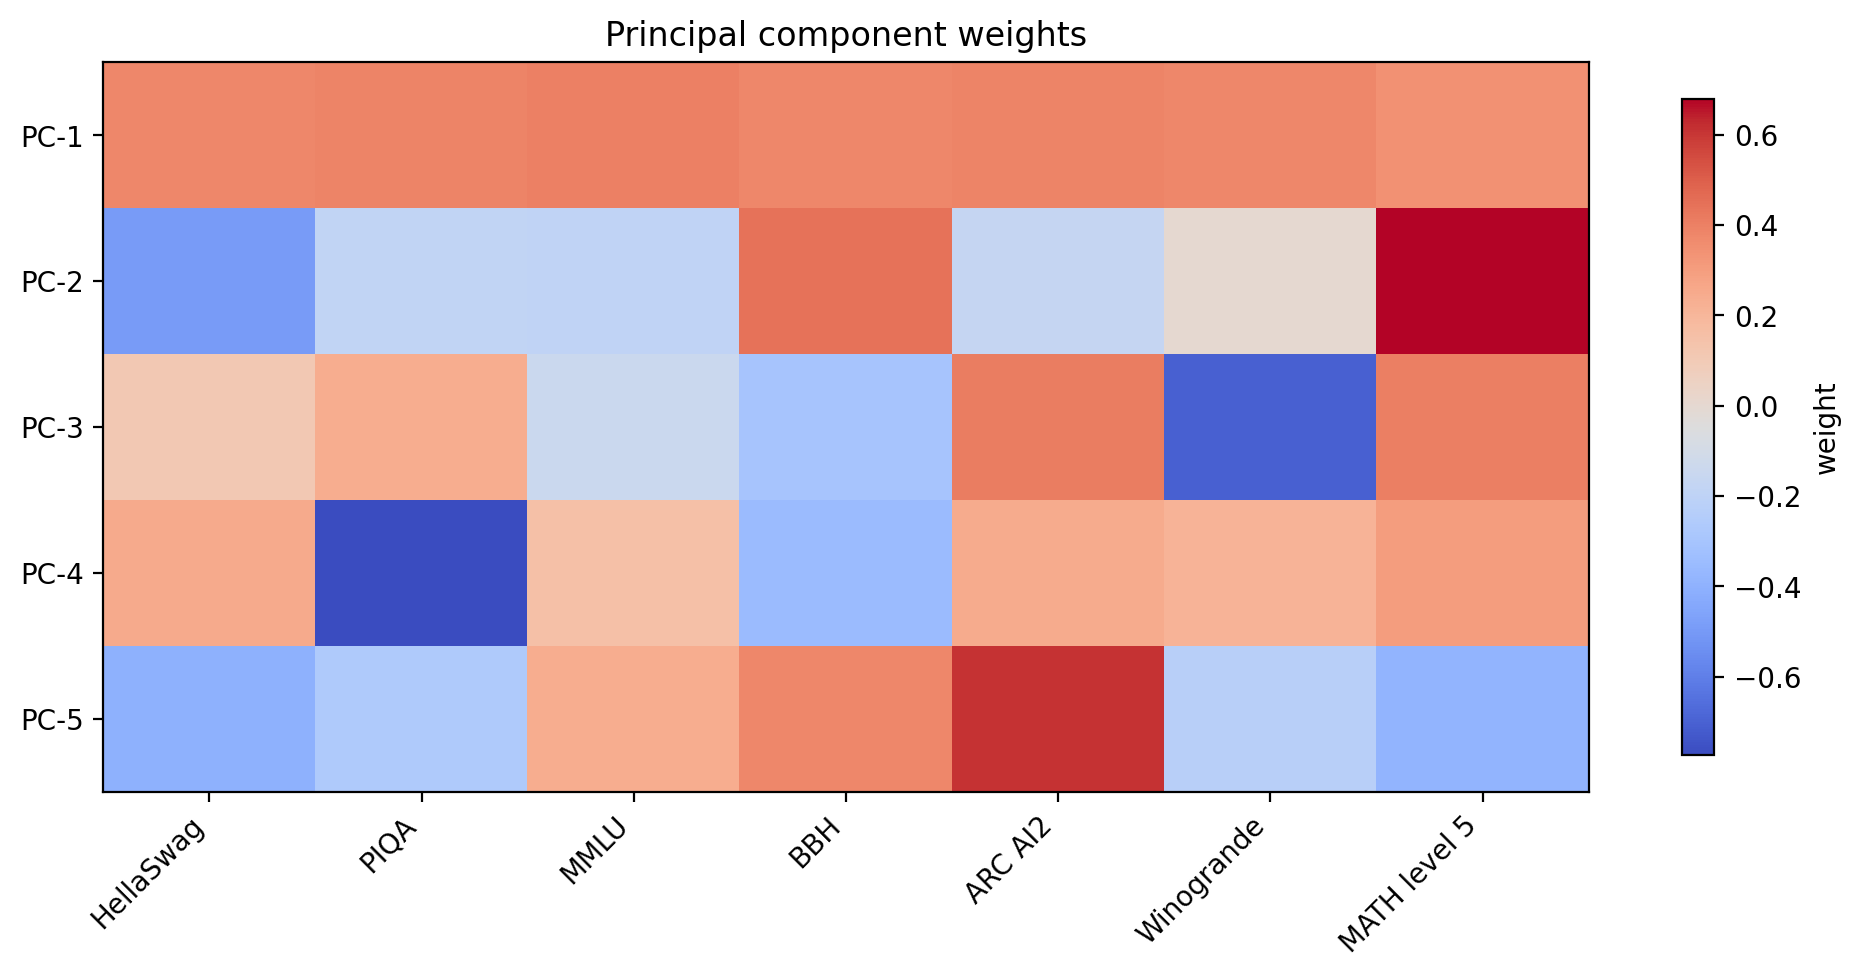
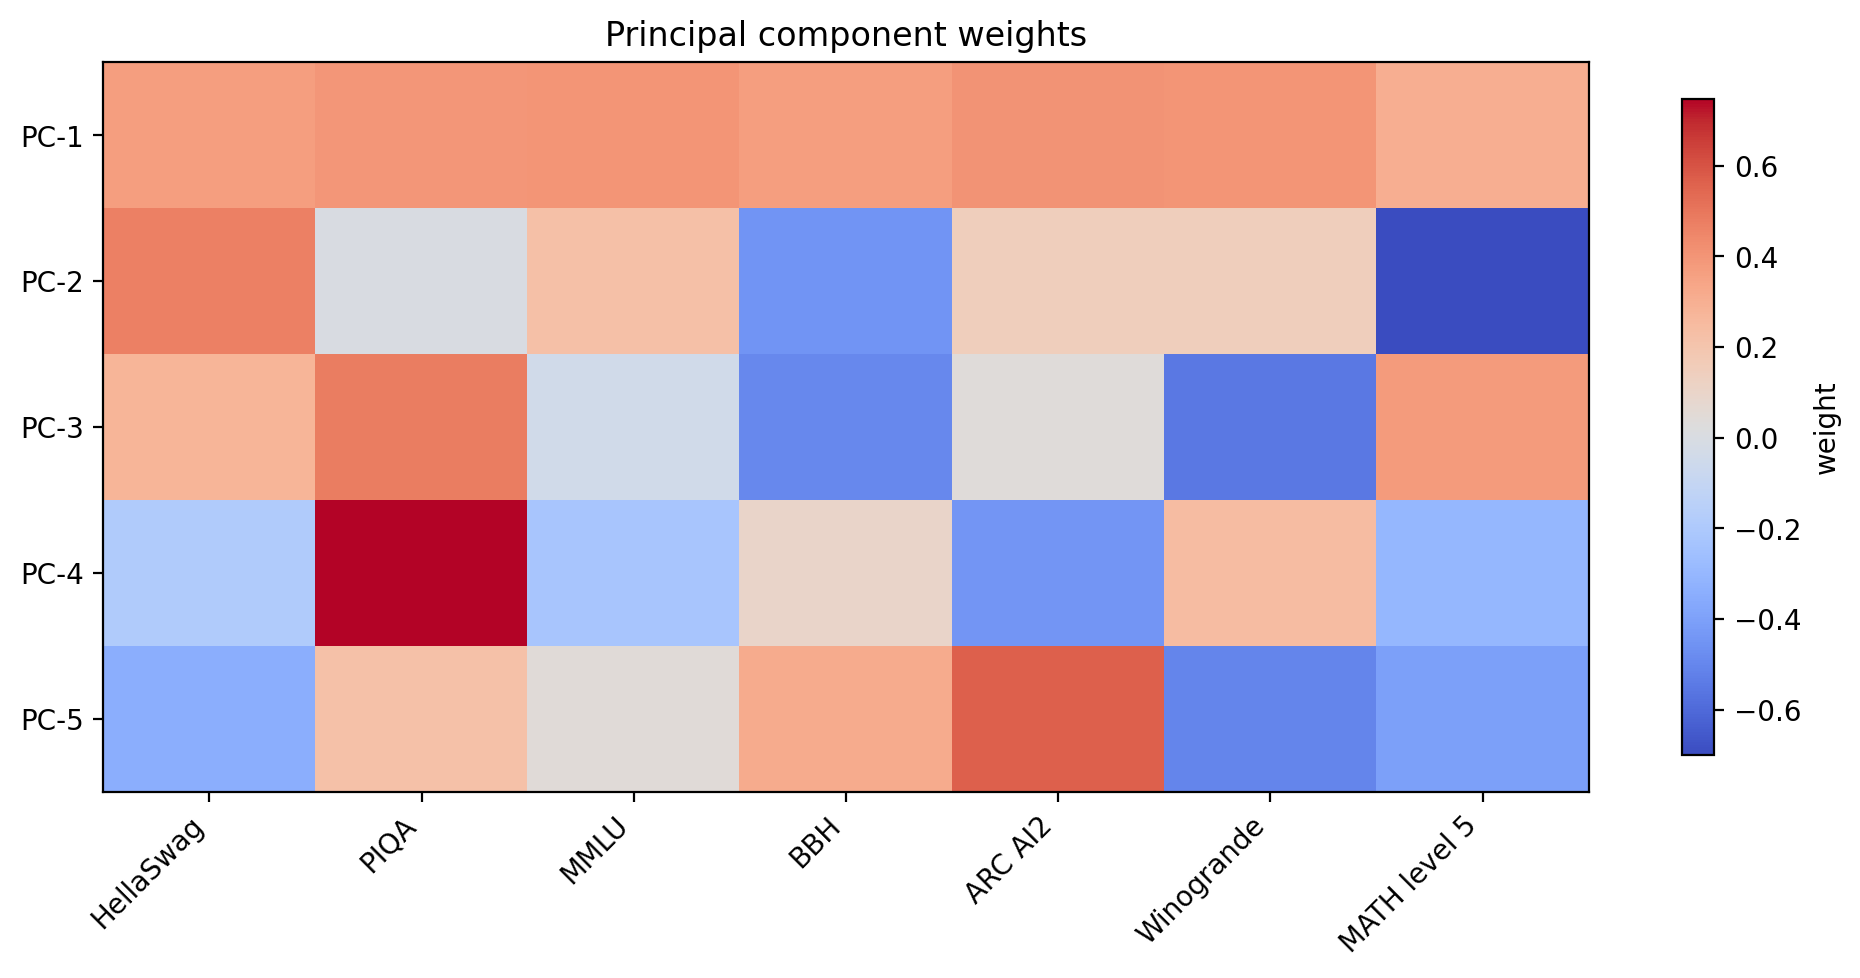
using new ECI for joint scaling; looks reasonable?

diff --git a/src/hinted_accuracy.py b/src/hinted_accuracy.py
@@ -9,8 +9,6 @@ import numpy as np
 
 
 DATA_ROOT = Path("data")
-RESULTS_WITH_CI_BY_COMBO_ROOT = DATA_ROOT / "results_with_ci_by_combo"
-EXTERNAL_RESULTS_WITH_CI_PATHS: dict[str, Path] = {}
 LUKE_AIME_RESULTS_ROOT = DATA_ROOT / "luke_aime2025_2026_results"
 LUKE_AIME_BENCHMARK = "aime2025_2026"
 LUKE_SUPPORTED_HINT_TYPE = "answer_not_revealed"
@@ -257,53 +255,6 @@ def collect_stats_for_fraction(
     }
 
 
-def load_external_results_with_ci(
-    path: Path,
-) -> dict[str, dict[float, dict[str, float]]] | None:
-    if not path.exists():
-        return None
-
-    with open(path, "r", encoding="utf-8") as f:
-        payload = json.load(f)
-    if not isinstance(payload, dict):
-        raise ValueError(f"Expected top-level object in {path}, got {type(payload).__name__}")
-
-    out: dict[str, dict[float, dict[str, float]]] = {}
-    for model, model_payload in payload.items():
-        if not isinstance(model, str) or not isinstance(model_payload, dict):
-            continue
-        fraction_map: dict[float, dict[str, float]] = {}
-        for hint_fraction_raw, stats in model_payload.items():
-            if not isinstance(stats, dict):
-                continue
-            try:
-                hint_fraction = float(hint_fraction_raw)
-            except (TypeError, ValueError):
-                continue
-            mean = stats.get("mean")
-            ci_lower = stats.get("ci_lower")
-            ci_upper = stats.get("ci_upper")
-            if not all(isinstance(value, (float, int)) for value in (mean, ci_lower, ci_upper)):
-                continue
-            fraction_map[float(hint_fraction)] = {
-                "accuracy": float(mean),
-                "ci_low": float(ci_lower),
-                "ci_high": float(ci_upper),
-            }
-        if fraction_map:
-            out[model] = fraction_map
-    return out
-
-
-def load_external_results_with_ci_for_fractioner(
-    fractioner: str,
-) -> dict[str, dict[float, dict[str, float]]]:
-    path = EXTERNAL_RESULTS_WITH_CI_PATHS.get(fractioner)
-    if path is None:
-        return {}
-    return load_external_results_with_ci(path) or {}
-
-
 def load_luke_results_with_ci_for_combo(
     *,
     benchmark: str,
@@ -368,17 +319,6 @@ def discover_models_for_benchmark(benchmark: str, *, data_root: Path = DATA_ROOT
     if benchmark_dir.exists():
         models.update(path.name for path in benchmark_dir.iterdir() if path.is_dir())
     return sorted(models)
-
-
-def results_with_ci_by_combo_path(
-    *,
-    benchmark: str,
-    hint_type: str,
-    fractioner: str,
-    data_root: Path = DATA_ROOT,
-) -> Path:
-    combo_name = f"{safe_component(hint_type)}__{safe_component(fractioner)}.json"
-    return (data_root / "results_with_ci_by_combo" / safe_component(benchmark) / combo_name)
 
 
 def discover_fractioners(
@@ -587,37 +527,7 @@ def rows_to_results_with_ci_payload(rows: list[dict[str, Any]]) -> dict[str, dic
     return payload
 
 
-def external_results_to_payload(
-    external_results: dict[str, dict[float, dict[str, float]]] | None,
-) -> dict[str, dict[str, dict[str, float]]]:
-    payload: dict[str, dict[str, dict[str, float]]] = {}
-    if not external_results:
-        return payload
-
-    for model, fraction_map in sorted(external_results.items()):
-        for hint_fraction, stats in sorted(fraction_map.items()):
-            fraction_key = f"{float(hint_fraction):.1f}"
-            payload.setdefault(model, {})[fraction_key] = {
-                "mean": float(stats["accuracy"]),
-                "ci_lower": float(stats["ci_low"]),
-                "ci_upper": float(stats["ci_high"]),
-            }
-    return payload
-
-
-def merge_results_with_ci_payloads(
-    base: dict[str, dict[str, dict[str, float]]],
-    override: dict[str, dict[str, dict[str, float]]],
-) -> dict[str, dict[str, dict[str, float]]]:
-    out: dict[str, dict[str, dict[str, float]]] = {
-        model: dict(frac_map) for model, frac_map in base.items()
-    }
-    for model, frac_map in override.items():
-        out.setdefault(model, {}).update(frac_map)
-    return out
-
-
-def build_results_with_ci_for_combo(
+def load_local_results_with_ci_for_combo(
     *,
     benchmark: str,
     hint_type: str,
@@ -639,6 +549,19 @@ def build_results_with_ci_for_combo(
     return parse_results_with_ci_payload(local_payload)
 
 
+def _merge_results_with_ci_maps(
+    *,
+    base: dict[str, dict[float, dict[str, float]]],
+    override: dict[str, dict[float, dict[str, float]]],
+) -> dict[str, dict[float, dict[str, float]]]:
+    out: dict[str, dict[float, dict[str, float]]] = {
+        model: dict(fraction_map) for model, fraction_map in base.items()
+    }
+    for model, fraction_map in override.items():
+        out.setdefault(model, {}).update(fraction_map)
+    return out
+
+
 def load_results_with_ci_for_combo(
     *,
     benchmark: str,
@@ -646,22 +569,18 @@ def load_results_with_ci_for_combo(
     fractioner: str,
     data_root: Path = DATA_ROOT,
 ) -> dict[str, dict[float, dict[str, float]]]:
-    combo_path = results_with_ci_by_combo_path(
+    local_results = load_local_results_with_ci_for_combo(
         benchmark=benchmark,
         hint_type=hint_type,
         fractioner=fractioner,
         data_root=data_root,
     )
-    if combo_path.exists():
-        with open(combo_path, "r", encoding="utf-8") as f:
-            payload = json.load(f)
-        return parse_results_with_ci_payload(payload)
-    return build_results_with_ci_for_combo(
+    luke_results = load_luke_results_with_ci_for_combo(
         benchmark=benchmark,
         hint_type=hint_type,
         fractioner=fractioner,
-        data_root=data_root,
     )
+    return _merge_results_with_ci_maps(base=luke_results, override=local_results)
 
 
 def discover_models_for_combo(

diff --git a/runs/plot_joint_scaling.py b/runs/plot_joint_scaling.py
@@ -15,7 +15,7 @@ if str(PROJECT_ROOT) not in sys.path:
     sys.path.insert(0, str(PROJECT_ROOT))
 
 from runs.fit_eci import EVAL_TO_ECI, load_baseline_scores
-from src.hinted_accuracy import discover_models_for_benchmark, load_results_with_ci_for_combo
+from src.hinted_accuracy import load_results_with_ci_for_combo
 
 
 PLOTS_ROOT = Path("plots/joint_scaling_plots")
@@ -203,14 +203,7 @@ def _load_combo_results(
         _canonicalize_old_gpqa_model_name(str(model)): stats
         for model, stats in combo_results.items()
     }
-    models = sorted(
-        {
-            _canonicalize_old_gpqa_model_name(str(model))
-            for model in discover_models_for_benchmark(benchmark)
-        }
-        | set(canonical_combo_results.keys())
-    )
-    return canonical_combo_results, models
+    return canonical_combo_results, sorted(canonical_combo_results.keys())
 
 
 def _resolve_models_to_use(
@@ -236,8 +229,7 @@ def _resolve_models_to_use(
     return canonical_models_to_use
 
 
-def _compute_pca_from_baselines() -> dict[str, Any]:
-    scores_df = load_baseline_scores()
+def _compute_pca_from_baselines(scores_df: Any) -> dict[str, Any]:
     df = scores_df[scores_df["benchmark"].isin(PC_BENCHMARK_ORDER)].copy()
     df["model"] = df["model"].map(lambda value: _canonicalize_old_gpqa_model_name(str(value)))
     pivot = df.pivot(index="model", columns="benchmark", values="score")
@@ -575,10 +567,11 @@ def _plot_capability_view_per_hint_with_error_bars(
 
 def main() -> None:
     args = _parse_args()
+    scores_df = load_baseline_scores()
     eci_path = Path(args.eci_file)
     eci_map = _load_eci_map(eci_path)
     eci_benchmark_label = _eci_benchmark_label(eci_path)
-    pca_result = _compute_pca_from_baselines()
+    pca_result = _compute_pca_from_baselines(scores_df)
     pc1_map = pca_result["capability_map"]
     pc_benchmark_label = pca_result["benchmark_label"]
     pc1_equation = pca_result["equation"]
@@ -699,7 +692,8 @@ def main() -> None:
 
 if __name__ == "__main__":
     # python -m runs.plot_joint_scaling --benchmark aime2025_2026 --hint-type answer_not_revealed --fractioner mask_word --eci-file data/eci_model_capabilities__simple__arc_challenge--bbh__prompt_type_answer_only--hellaswag__split_validation--math__levels_5__fewshot_0--mmlu_5_shot__language_en_us__cot_true--piqa--winogrande__dataset_name_winogrande_xl__fewshot_5.csv
-    # python -m runs.plot_joint_scaling --benchmark aime2025_2026 --hint-type answer_not_revealed --fractioner truncate_word --eci-file data/eci_model_capabilities__simple__arc_challenge--bbh__prompt_type_answer_only--hellaswag__split_validation--mmlu_5_shot__language_en_us__cot_true--piqa--winogrande__dataset_name_winogrande_xl__fewshot_5.csv
+    # python -m runs.plot_joint_scaling --benchmark aime2025_2026 --hint-type answer_not_revealed --fractioner truncate_word --eci-file data/eci_model_capabilities__simple__arc_challenge--bbh__prompt_type_answer_only--hellaswag__split_validation--math__levels_5__fewshot_0--mmlu_5_shot__language_en_us__cot_true--piqa--winogrande__dataset_name_winogrande_xl__fewshot_5.csv
 
-    # python -m runs.plot_joint_scaling --benchmark gpqa --hint-type answer_not_revealed --fractioner mask_word --eci-file data/eci_model_capabilities__simple__arc_challenge--bbh--hellaswag--mmlu_5_shot_cot--piqa--winogrande.csv
+
+    # python -m runs.plot_joint_scaling --benchmark gpqa --hint-type answer_not_revealed --fractioner mask_word
     main()
